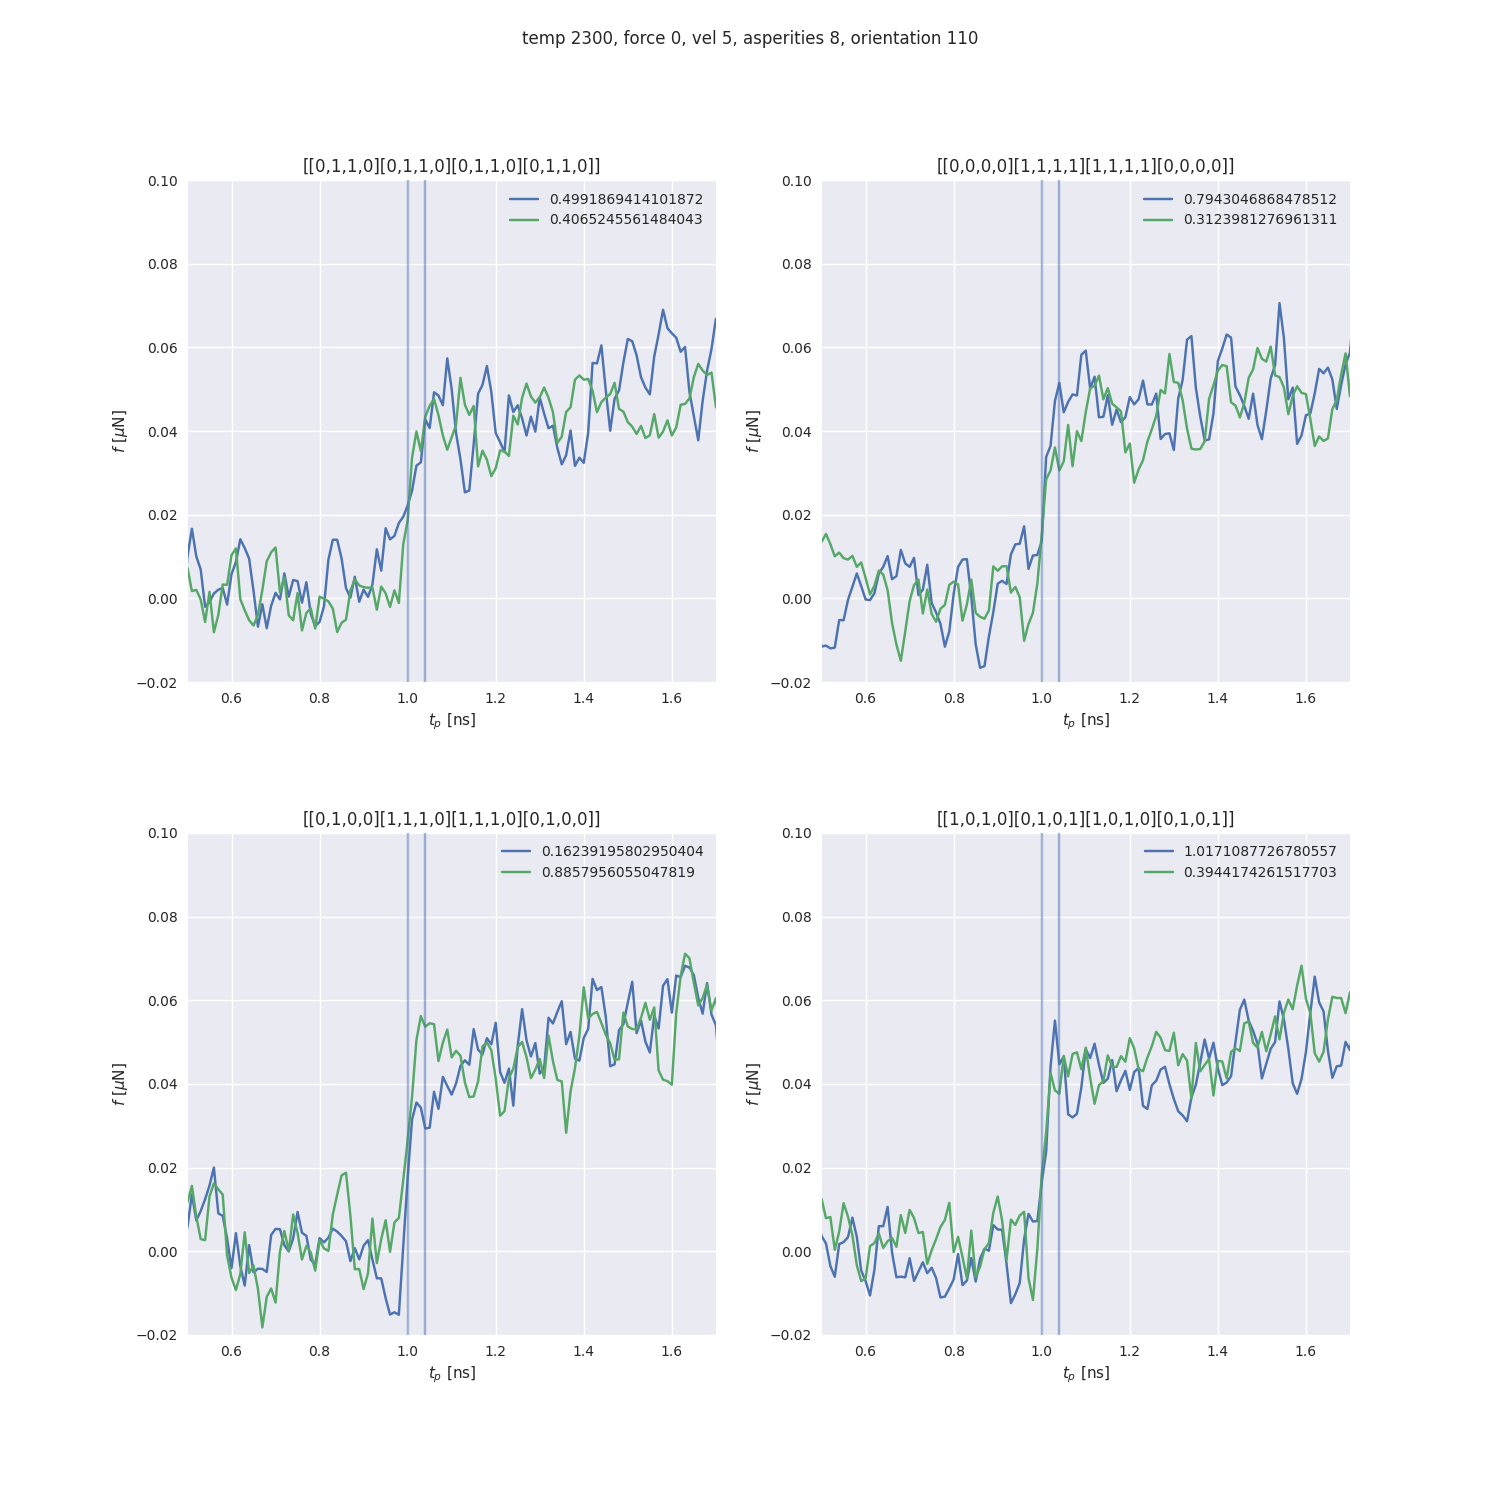
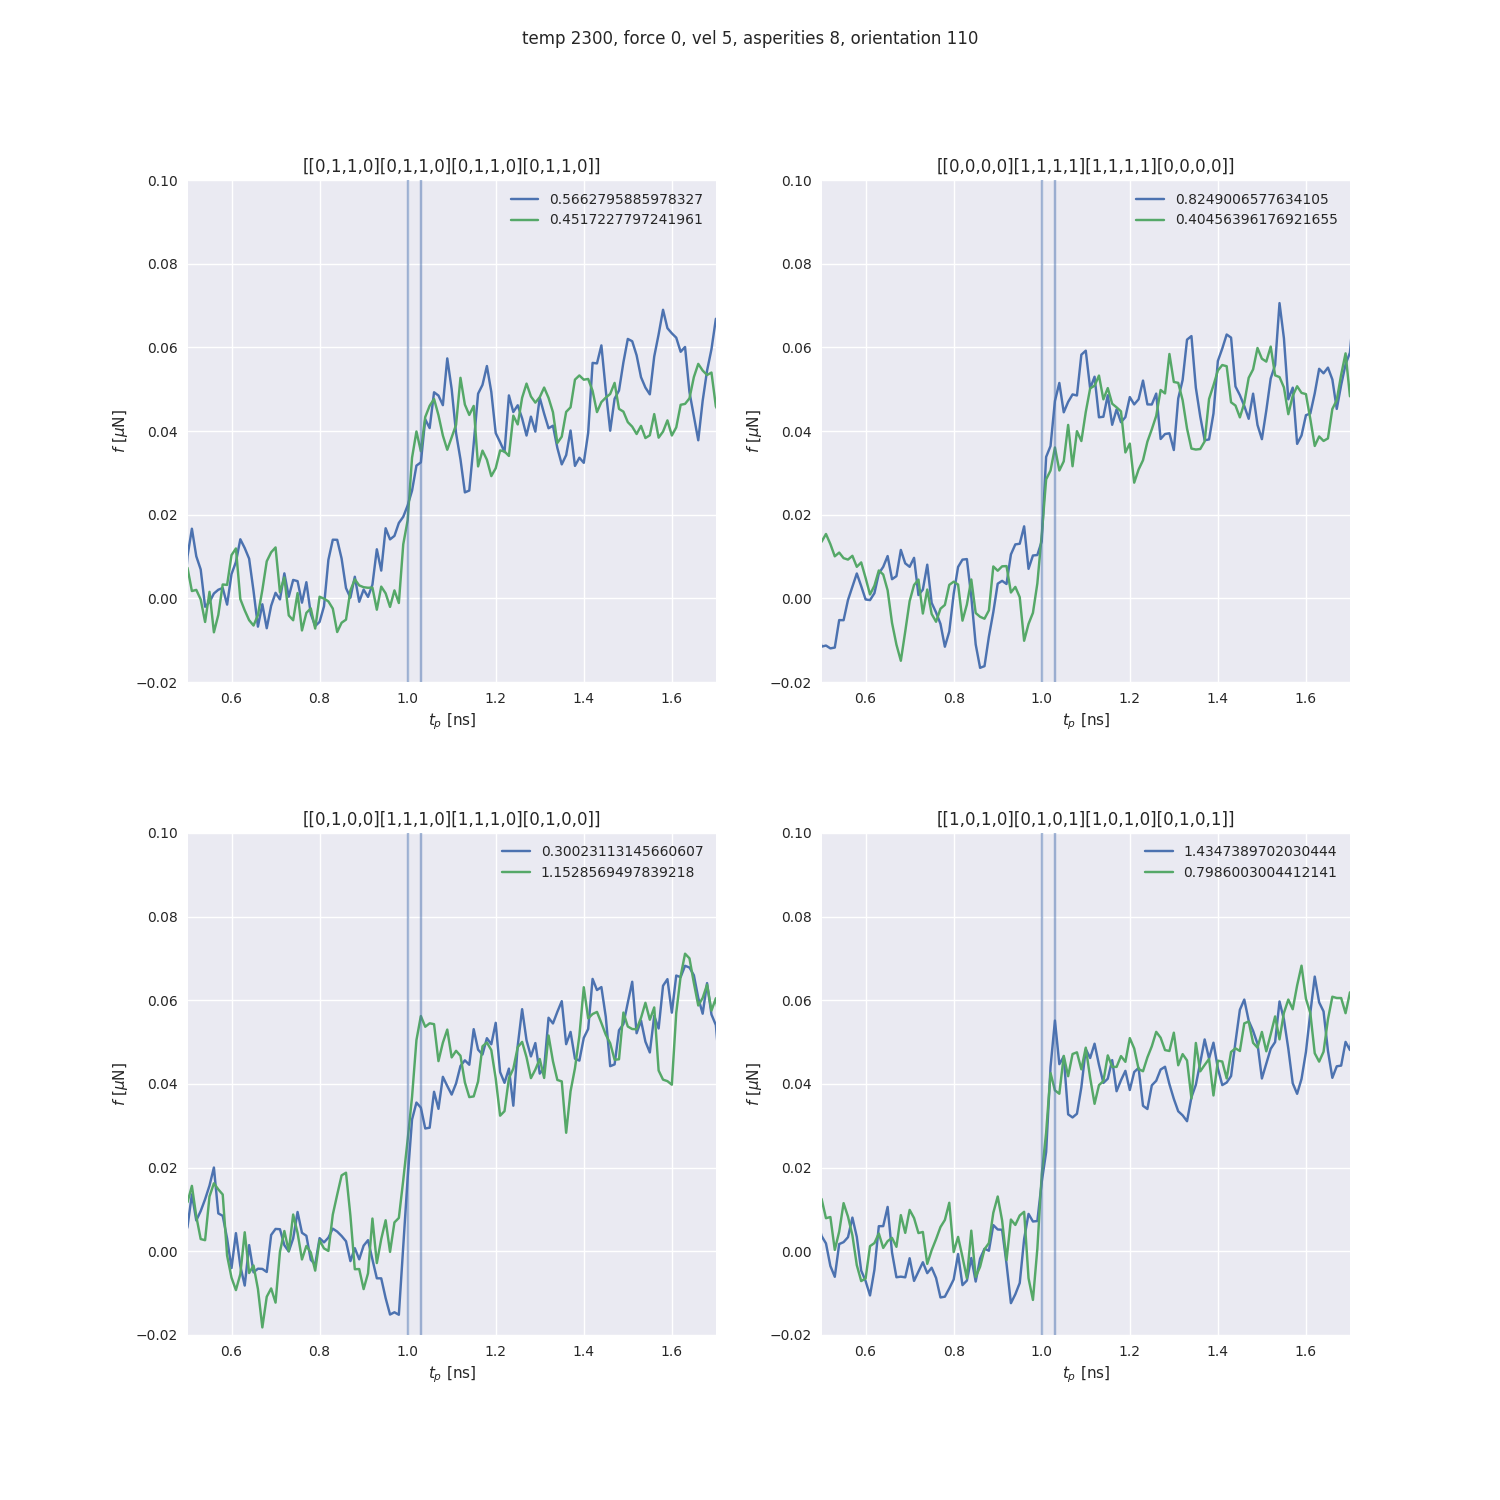
changes upper rise limit to 1.03

diff --git a/python/plot/plot_load_curves.py b/python/plot/plot_load_curves.py
@@ -526,7 +526,7 @@ def plot_production(temp, vel, force, uc, asperities, time, orientation, grid, e
             axs[i].set_title(man_init_strange[i])
         
         push_start_indx = (np.abs(load_curves_all[0][:,0] - 1.0)).argmin()
-        push_stop_indx = (np.abs(load_curves_all[0][:,0] - 1.04)).argmin()
+        push_stop_indx = (np.abs(load_curves_all[0][:,0] - 1.03)).argmin()
 
         axs[i].set_ylim(bottom = -0.02, top = 0.1)
         axs[i].set_xlim(left = 0.5, right = 1.7)

diff --git a/python/post/post_utils.py b/python/post/post_utils.py
@@ -319,7 +319,7 @@ def extract_load_curves(logfile, delta=None, init_time=0, window=1,
     #finding where push starts, and about where it breaks
     print(len(time))
     push_start_indx = (np.abs(time - 1.0)).argmin()
-    push_stop_indx = (np.abs(time-1.04)).argmin()
+    push_stop_indx = (np.abs(time-1.03)).argmin()
 
     print(f'push start indx, time: {time[push_start_indx]}, {push_start_indx}')
     print(f'push stop indx, time: {time[push_stop_indx]}, {push_stop_indx}')
